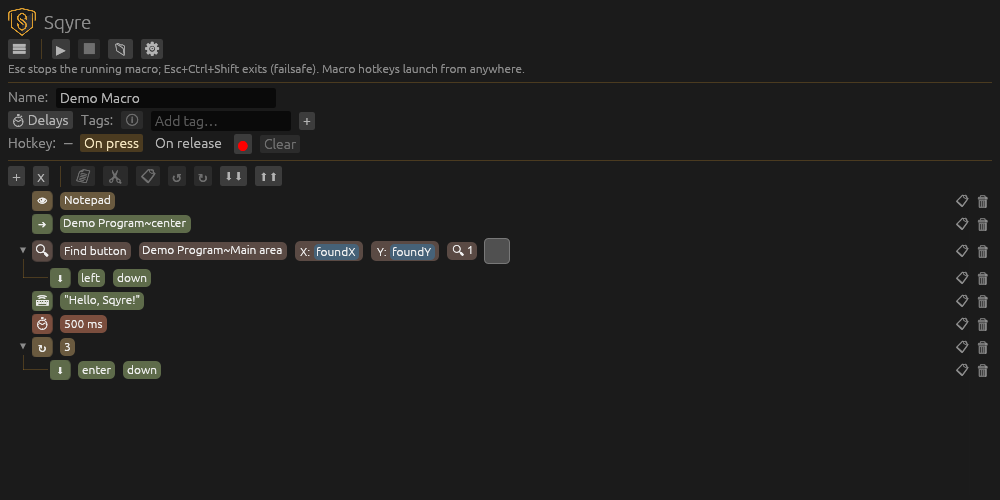
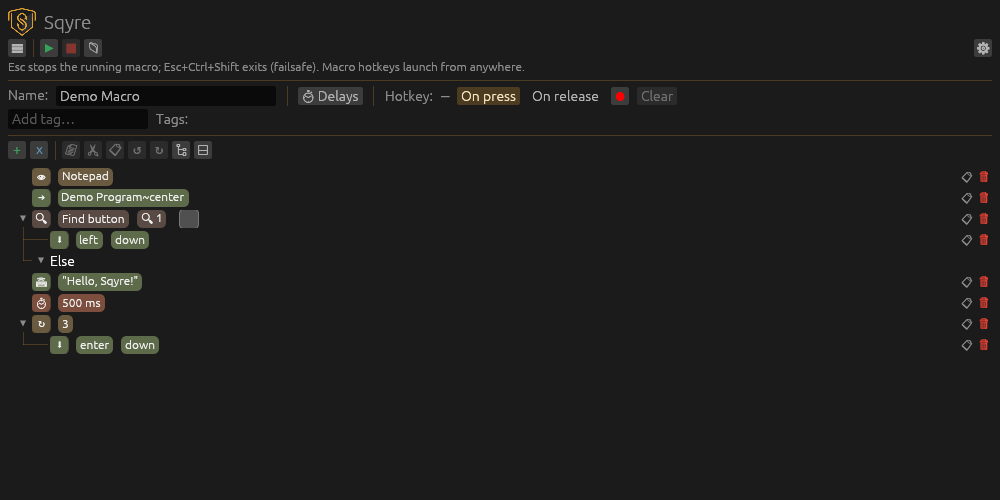
Sync upstream Sqyre content and update site for the Rust rewrite.

diff --git a/content/docs/_index.md b/content/docs/_index.md
@@ -18,7 +18,7 @@ params:
     startUrl: "/docs/features/"
 ---
 
-Sqyre is a desktop macro builder: each **macro** is an ordered **tree of actions** you edit in a Fyne window. Macros, images, masks, and data tables live under **`~/.sqyre/`**. This page explains the main screen, how actions are added and edited, and how branching actions behave when you run a macro.
+Sqyre is a desktop macro builder: each **macro** is an ordered **tree of actions** you edit in an egui window. Macros, images, masks, and data tables live under **`~/.sqyre/`**. This page explains the main screen, how actions are added and edited, and how branching actions behave when you run a macro.
 
 For the tech stack overview, see [Features](/docs/features/). For compiling the app, see [Build](/docs/build/).
 
@@ -27,7 +27,7 @@ For the tech stack overview, see [Features](/docs/features/). For compiling the 
 - **Macro tabs** — Each open macro appears as a tab. Use **+** (new tab) to create a macro; the name in the toolbar is saved when you submit it.
 - **Macro list** (toolbar button with the list icon) — Browse all saved macros, open one in a tab, or delete a macro (with confirmation).
 - **Toolbar (top row)** — Unselect, move selection up/down in the list, copy and paste the selected action, **play** the current macro, macro name field, and macro picker.
-- **Toolbar (bottom row)** — **Global delay** (milliseconds) applied between Robotgo mouse/keyboard operations, live **mouse X/Y**, **hotkey** display, **trigger** (on press vs on release), and **record** for the hotkey chord.
+- **Toolbar (bottom row)** — **Global delay** (milliseconds) applied between mouse/keyboard operations, live **mouse X/Y**, **hotkey** display, **trigger** (on press vs on release), and **record** for the hotkey chord.
 - **Menu bar** — **Settings → Computer info** (screen and monitor sizes), **Data Editor** (points, search areas, items, programs, etc.), **User Settings**. Under **Macro**: **Add Action…** (picker dialog) and **Add Blank Action** (submenus by category).
 - **Runtime variables** — While a macro runs, a panel shows live variable values.
 

diff --git a/content/_index.md b/content/_index.md
@@ -3,7 +3,7 @@ title: "Sqyre"
 description: "Desktop macro builder — automate mouse, keyboard, and screen-aware steps with a visual tree editor."
 lead: "Build and run macros without writing code. Each macro is a tree of actions: loops and branches for flow control, detection when the screen matters, and leaf steps for concrete input."
 date: 2025-04-01T00:00:00Z
-lastmod: 2026-06-30T00:00:00Z
+lastmod: 2026-07-24T00:00:00Z
 draft: false
 params:
   seo:
@@ -15,6 +15,6 @@ params:
 
 - **Local, open source, private** — macros and data live under `~/.sqyre/`
 - **Cross-platform** — Linux and Windows; a single binary per platform
-- **Visual tree editor** — Fyne GUI with hotkeys, global delay, and a runtime variable panel
-- **Screen-aware automation** — image search (OpenCV), OCR (Tesseract), find pixel, and conditional **if** branches
+- **Visual tree editor** — egui GUI with hotkeys, global delay, and a runtime variable panel
+- **Screen-aware automation** — image search (PureCV), OCR (Tesseract), find pixel, and conditional **if** branches
 - **Flow control** — loop, for each row, break, continue, pause, and nested **run macro**

diff --git a/content/docs/features/_index.md b/content/docs/features/_index.md
@@ -2,7 +2,7 @@
 title: "Features"
 description: "Action types, screenshots, and tech stack for the Sqyre macro builder."
 date: 2025-03-09
-lastmod: 2026-07-20T00:00:00Z
+lastmod: 2026-07-24T00:00:00Z
 draft: false
 weight: 10
 toc: true
